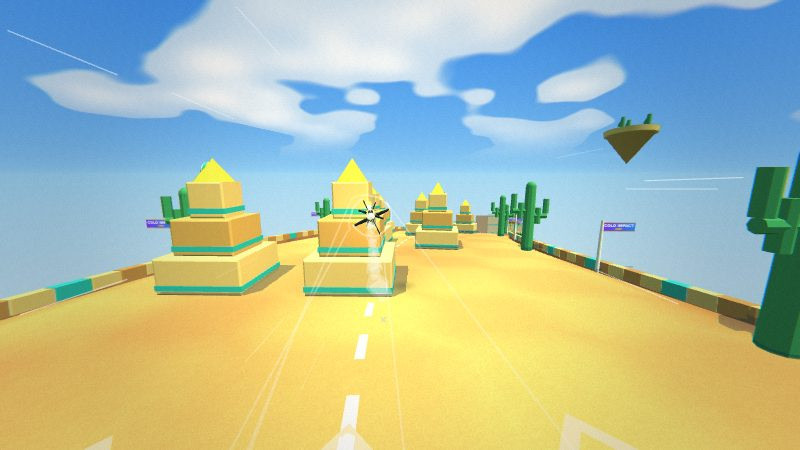
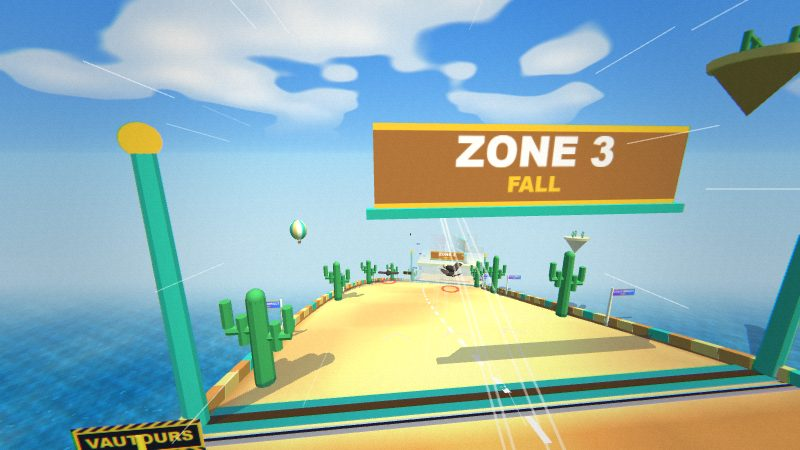
v397 : menu avec grande photo de carte et fleches, icones et barre du bas plus propres, sols a motifs differents par section, photos desert et usine

diff --git a/src/systems/evo_menu.js b/src/systems/evo_menu.js
@@ -16,11 +16,11 @@
   };
   const navIcon = (ctx, id, x, y, r, on, S, g) => {
     ctx.save(); ctx.translate(x, y); ctx.fillStyle = on ? '#ffffff' : '#e8dcff'; ctx.strokeStyle = '#5a2cc8'; ctx.lineWidth = S(3);
-    if (id === 'boutique') { ctx.fillRect(-r * 0.5, -r * 0.1, r, r * 0.6); ctx.fillStyle = '#ff4a4a'; ctx.beginPath(); ctx.moveTo(-r * 0.62, -r * 0.1); ctx.lineTo(-r * 0.4, -r * 0.55); ctx.lineTo(r * 0.4, -r * 0.55); ctx.lineTo(r * 0.62, -r * 0.1); ctx.closePath(); ctx.fill(); ctx.fillStyle = '#5a2cc8'; ctx.fillRect(-r * 0.12, r * 0.12, r * 0.24, r * 0.38); }
+    if (id === 'boutique') { if (!UI.artImg(ctx, 'shop', 0, 0, r * 2.1)) { ctx.fillStyle = '#ffffff'; ctx.fillRect(-r * 0.5, -r * 0.1, r, r * 0.6); } }
     else if (id === 'costumes') { PRO.icon(ctx, 0, 0, r * 2.2, CC.Skins.byId[PRO.skin()] || CC.Skins.byId.stock, -Math.PI / 4); }
     else if (id === 'jouer') { ctx.fillStyle = '#ffffff'; ctx.beginPath(); ctx.moveTo(-r * 0.3, -r * 0.5); ctx.lineTo(r * 0.55, 0); ctx.lineTo(-r * 0.3, r * 0.5); ctx.closePath(); ctx.fill(); }
     else if (id === 'pouvoirs') { ctx.fillStyle = '#ffd23a'; ctx.beginPath(); ctx.moveTo(r * 0.1, -r * 0.6); ctx.lineTo(-r * 0.4, r * 0.1); ctx.lineTo(-r * 0.02, r * 0.1); ctx.lineTo(-r * 0.15, r * 0.6); ctx.lineTo(r * 0.4, -r * 0.15); ctx.lineTo(r * 0.02, -r * 0.15); ctx.closePath(); ctx.fill(); ctx.stroke(); }
-    else { ctx.fillStyle = '#c9c9d6'; UI.rrect(ctx, -r * 0.4, -r * 0.1, r * 0.8, r * 0.6, r * 0.1); ctx.fill(); ctx.lineWidth = S(6); ctx.strokeStyle = '#c9c9d6'; ctx.beginPath(); ctx.arc(0, -r * 0.1, r * 0.25, Math.PI, 0); ctx.stroke(); }
+    else { ctx.fillStyle = '#ffd23a'; ctx.strokeStyle = '#7a4a00'; ctx.lineWidth = S(3); ctx.beginPath(); ctx.moveTo(-r * 0.42, -r * 0.5); ctx.lineTo(r * 0.42, -r * 0.5); ctx.quadraticCurveTo(r * 0.4, r * 0.18, 0, r * 0.2); ctx.quadraticCurveTo(-r * 0.4, r * 0.18, -r * 0.42, -r * 0.5); ctx.closePath(); ctx.fill(); ctx.stroke(); ctx.lineWidth = S(4); for (const sg of [-1, 1]) { ctx.beginPath(); ctx.arc(sg * r * 0.5, -r * 0.3, r * 0.2, sg > 0 ? -1.2 : 1.2 + Math.PI, sg > 0 ? 1.2 : -1.2 + Math.PI, sg < 0); ctx.stroke(); } ctx.fillRect(-r * 0.08, r * 0.2, r * 0.16, r * 0.22); ctx.fillRect(-r * 0.3, r * 0.42, r * 0.6, r * 0.14); ctx.strokeRect(-r * 0.3, r * 0.42, r * 0.6, r * 0.14); }
     ctx.restore();
   };
   const panelBg = (ctx, W0, y0, y1) => {   // le fond violet a damier des ecrans de menu
@@ -30,7 +30,7 @@
     ctx.restore();
   };
   const cupCard = (ctx, g, F, S) => {   // la carte de la Coupe : 3 manches + le paquet
-    const { Y, cw, cx } = F, R = api.R, y = Y(0.60), h = S(250), w = cw * 0.92, x = cx - w / 2;
+    const { Y, cw, cx } = F, R = api.R, y = Y(0.575), h = S(236), w = cw * 0.92, x = cx - w / 2;
     UI.rrect(ctx, x, y, w, h, S(34)); ctx.fillStyle = 'rgba(24,18,70,0.86)'; ctx.fill(); ctx.lineWidth = S(5); ctx.strokeStyle = '#ffd23a'; ctx.stroke();
     UI.text(ctx, 'COUPE COLD IMPACT', cx, y + S(38), S(50), '#FFD23A', { outline: true });
     const names = R.courses.map((c) => c.name), seg = (w - S(60)) / 4;
@@ -51,8 +51,13 @@
     const navY = Y(0.935), navH = HH * 0.13;
     // contenu de l'onglet
     if (M.tab === 'jouer') {
-      const spinning = now - M.spin0 < 1500, nm = spinning ? R.courses[Math.floor((now - M.spin0) / 90) % R.courses.length].name : R.courses[R.round - 1].name;
-      UI.text(ctx, 'MAP', cx, Y(0.115), S(34), '#ffffff', { outline: true }); UI.text(ctx, nm, cx, Y(0.17), UI.fit(ctx, nm, cw * 0.8, S(96)), spinning ? '#ffffff' : '#FFD23A', { outline: true });
+      const keys = api.mapKeys(), cm = api.curMap(), pw = cw * 0.8, ph = pw / 1.6, px = cx - pw / 2, py = Y(0.095), mp = E.mapPoster ? E.mapPoster(cm) : null;   // la carte : une grande photo, son nom, des fleches pour en changer
+      ctx.save(); ctx.shadowColor = 'rgba(0,0,0,0.5)'; ctx.shadowBlur = S(26); ctx.shadowOffsetY = S(10); UI.rrect(ctx, px, py, pw, ph, S(30)); ctx.fillStyle = '#0b0d1c'; ctx.fill(); ctx.restore();
+      if (mp) { ctx.save(); UI.rrect(ctx, px, py, pw, ph, S(30)); ctx.clip(); ctx.drawImage(mp, 0, 0, mp.width, mp.height, px, py, pw, ph); const gr0 = ctx.createLinearGradient(0, py + ph * 0.55, 0, py + ph); gr0.addColorStop(0, 'rgba(8,10,28,0)'); gr0.addColorStop(1, 'rgba(8,10,28,0.86)'); ctx.fillStyle = gr0; ctx.fillRect(px, py + ph * 0.55, pw, ph * 0.45); ctx.restore(); }
+      UI.rrect(ctx, px, py, pw, ph, S(30)); ctx.lineWidth = S(7); ctx.strokeStyle = '#ffffff'; ctx.stroke();
+      const nmm = E.mapName ? E.mapName(cm) : cm.toUpperCase(); UI.text(ctx, 'CARTE ' + (R.round) + ' / 3', px + S(26), py + S(30), S(26), '#FFD23A', { align: 'left', outline: true }); UI.text(ctx, nmm, cx, py + ph - S(46), UI.fit(ctx, nmm, pw * 0.8, S(76)), '#ffffff', { outline: true });
+      for (const sgn of [-1, 1]) { const ax = sgn < 0 ? px - S(8) : px + pw + S(8), ay = py + ph / 2, rr = S(44); ctx.save(); ctx.shadowColor = 'rgba(0,0,0,0.45)'; ctx.shadowBlur = S(10); ctx.beginPath(); ctx.arc(ax, ay, rr, 0, 6.283); ctx.fillStyle = '#ffd23a'; ctx.fill(); ctx.restore(); ctx.lineWidth = S(5); ctx.strokeStyle = '#7a4a00'; ctx.beginPath(); ctx.arc(ax, ay, rr, 0, 6.283); ctx.stroke(); ctx.fillStyle = '#5a3400'; ctx.beginPath(); ctx.moveTo(ax - sgn * S(14), ay - S(22)); ctx.lineTo(ax + sgn * S(12), ay); ctx.lineTo(ax - sgn * S(14), ay + S(22)); ctx.closePath(); ctx.fill();
+        UI.tap(ui, ax - rr, ay - rr, rr * 2, rr * 2, () => { const i = keys.indexOf(cm); api.setMap(keys[(i + sgn + keys.length) % keys.length]); }); }
       cupCard(ctx, g, F, S);
       const bw = cw * 0.56, bh = S(130), bx = cx - bw / 2, by = Y(0.80), pulse = 1 + 0.03 * Math.sin(now / 200);
       ctx.save(); ctx.translate(cx, by + bh / 2); ctx.scale(pulse, pulse); ctx.translate(-cx, -(by + bh / 2)); UI.btnPrimary(ctx, bx, by, bw, bh, 'JOUER'); ctx.restore(); UI.tap(ui, bx, by, bw, bh, () => api.start(g));
@@ -62,7 +67,7 @@
       else { UI.text(ctx, 'CLASSEMENT', cx, Y(0.2), S(80), '#ffffff', { outline: true }); ctx.save(); ctx.translate(cx, Y(0.42)); ctx.fillStyle = '#d6d6e6'; UI.rrect(ctx, -S(90), -S(30), S(180), S(150), S(24)); ctx.fill(); ctx.lineWidth = S(26); ctx.strokeStyle = '#d6d6e6'; ctx.beginPath(); ctx.arc(0, -S(30), S(60), Math.PI, 0); ctx.stroke(); ctx.restore(); UI.text(ctx, 'BIENTOT', cx, Y(0.6), S(70), '#FFD23A', { outline: true }); UI.text(ctx, 'LE VRAI CLASSEMENT DES JOUEURS', cx, Y(0.67), UI.fit(ctx, 'LE VRAI CLASSEMENT DES JOUEURS', cw * 0.9, S(36)), '#ffffff', { shadow: false }); UI.text(ctx, 'ARRIVERA AVEC LA PLATEFORME', cx, Y(0.715), UI.fit(ctx, 'ARRIVERA AVEC LA PLATEFORME', cw * 0.9, S(36)), '#ffffff', { shadow: false }); }
     }
     // barre du bas
-    ctx.fillStyle = '#7a3cf0'; ctx.fillRect(0, navY - navH * 0.55, W0, HH + T0 - (navY - navH * 0.55) + 4); ctx.fillStyle = 'rgba(0,0,0,0.18)'; ctx.fillRect(0, navY - navH * 0.55, W0, S(5));
+    { const gn = ctx.createLinearGradient(0, navY - navH * 0.55, 0, HH + T0 + 4); gn.addColorStop(0, '#8a4ff0'); gn.addColorStop(1, '#5a2cc8'); ctx.fillStyle = gn; ctx.fillRect(0, navY - navH * 0.55, W0, HH + T0 - (navY - navH * 0.55) + 4); ctx.fillStyle = 'rgba(255,255,255,0.35)'; ctx.fillRect(0, navY - navH * 0.55, W0, S(4)); }
     TABS.forEach(([id, label], i) => {
       const x = cx + (i - 2) * cw * 0.2, on = M.tab === id, big = id === 'jouer', r = S(big ? 62 : 46);
       if (on && !big) { ctx.fillStyle = 'rgba(255,255,255,0.22)'; ctx.fillRect(x - cw * 0.1, navY - navH * 0.55, cw * 0.2, navH * 1.4); }

diff --git a/src/systems/evo_isle.js b/src/systems/evo_isle.js
@@ -173,7 +173,8 @@
     ground: (d, lx, c) => {
       const C = E.course, I = C && C.isle; if (!I) return; const s = SEC[secAt(d)], a = Math.abs(lx), w = I.W(d);
       const base = s.col === 'split' ? (lx < 0 ? COLS.teal : COLS.pink) : COLS[s.col]; c.copy(base);
-      if (((Math.floor(d / 18) + Math.floor((lx + 300) / 18)) & 1)) c.multiplyScalar(0.94);   // damier tres doux
+      { const pt = secAt(d) % 4;   // un motif different par section : damier, diagonales, bandes, grand damier
+        if (pt === 0 ? ((Math.floor(d / 18) + Math.floor((lx + 300) / 18)) & 1) : pt === 1 ? (Math.floor((d + lx + 400) / 14) & 1) : pt === 2 ? (Math.floor((lx + 300) / 16) & 1) : ((Math.floor(d / 34) + Math.floor((lx + 300) / 34)) & 1)) c.multiplyScalar(pt === 3 ? 0.95 : 0.93); }
       if (a > w - 2) c.copy(RIM);
     },
     build(S) {

diff --git a/src/systems/evo_mvp.js b/src/systems/evo_mvp.js
@@ -786,7 +786,7 @@ const CUP = SHAPES.map((s) => s.name);
     const pulse = 1 + 0.03 * Math.sin(t * 5); ctx.save(); ctx.translate(cx, by + bh / 2); ctx.scale(pulse, pulse); ctx.translate(-cx, -(by + bh / 2)); UI.btnPrimary(ctx, bx, by, bw, bh, 'START'); ctx.restore();
     UI.tap(ui, bx, by, bw, bh, () => startRun(g));
   };
-  if (E.raceApi) Object.assign(E.raceApi, { R, start: startRun, cur });
+  if (E.raceApi) Object.assign(E.raceApi, { R, start: startRun, cur, mapKeys: () => Object.keys(MAP_NAMES), curMap: () => cur().map || 'arch', setMap: (m) => { R.courses[R.round - 1] = pickCourse(m); } });
   Home.drawEvoAim = function () { };   // plus de barre de lancement : START part tout de suite
 
   // ---------------------------------------------------------------- carte de fin (style MISSION ACCOMPLIE)

diff --git a/HANDOFF_ARCHIPEL.md b/HANDOFF_ARCHIPEL.md
@@ -132,3 +132,8 @@ Sonnet 5.5 effort MOYEN (faible pour les retouches mecaniques, eleve seulement p
 
 ## v395 (choix de la carte)
 - Avant chaque manche (y compris depuis JOUER) : overlay DOM `beginCd` = roulette de photos reelles (assets/maps/*.jpg, captees par `cctest/photos.js`) puis fleches / touches gauche-droite pour choisir la carte, ALEATOIRE, bouton LANCER ; le 3-2-1-GO ne demarre qu'apres LANCER ; l'overlay disparait au GO avant le decollage. La carte choisie remplace `R.courses[R.round-1]`.
+
+## v396-v397 (version C + menu + lisibilite)
+- C : DESERT (marches|tourbillons, pistons, vautours, etages scarabees|portes / obelisques|haches, surf de dune, tempete, salle des piliers) et USINE (engrenages, presses|lance-flammes, convoyeurs, tuyau-looping, etages wagonnets|caisses / bras|rouleaux broyeurs, vapeur, arcs). Tuyaux = usine seulement (`loopPipe`), vent = desert seulement.
+- Portiques de zone (`ZONE n` + nom) a chaque nouvelle section ; sols avec un motif different par section.
+- Menu : grande photo de la carte avec fleches (`raceApi.setMap`), icones du bas (boutique en image, trophee dessine), barre en degrade. Les scripts de test doivent utiliser `CC.EVO.raceApi.start(CC.game)` (le bouton [0] est maintenant une fleche de carte).
